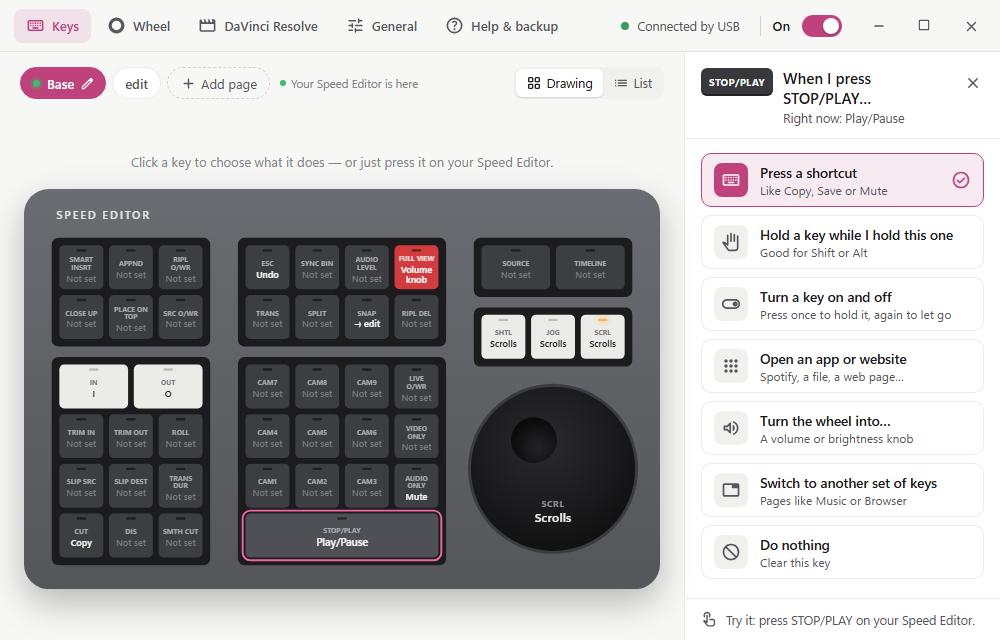
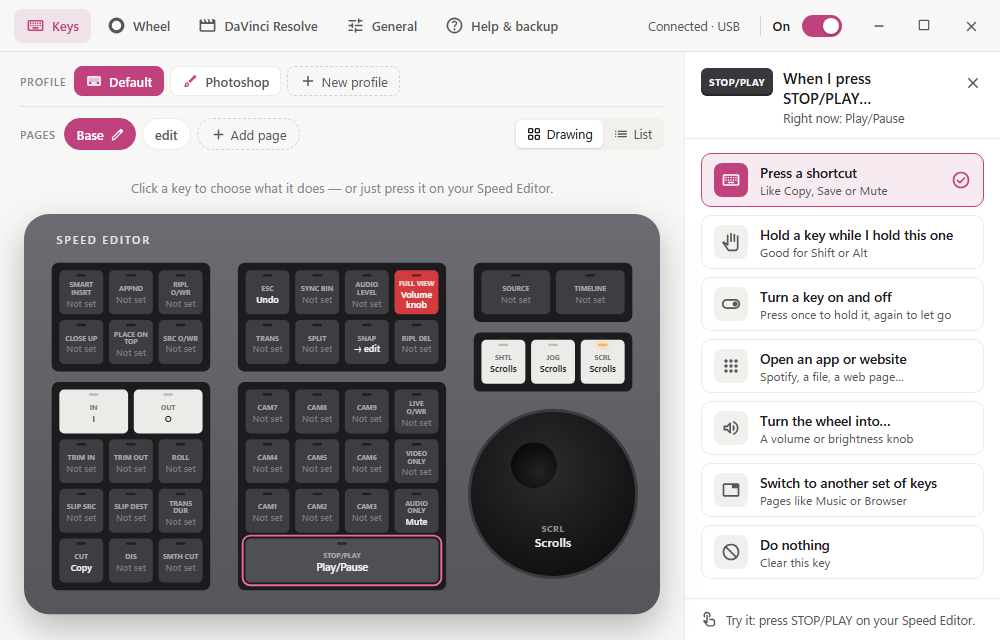
docs: README shows the 1.1 screens (#222)
The README stills are refreshed from this PR's e2e-windows run (the
e2e-screenshots artifact's readme/ folder): the 1.1 look, with the
profile picker. The e2e adds an example Photoshop profile (rose, a brush
icon) next to Default before the stills are taken.

---------

diff --git a/scripts/readme.test.js b/scripts/readme.test.js
@@ -79,3 +79,7 @@ test("the header's badges: the latest release's build, and the license, with no 
   const release = readFileSync(new URL("../.github/workflows/release.yml", import.meta.url), "utf8");
   expect(release).toMatch(/^on:\r?\n  push:\r?\n    tags: \["v\*"\]\r?\n  workflow_dispatch:/m);
 });
+
+test("the README's hero shows the profile picker", () => {
+  expect(readme).toMatch(/alt="freewheel's Keys tab: the profile picker[^"]*"/);
+});

diff --git a/README.md b/README.md
@@ -6,7 +6,7 @@
 
 <picture>
   <source media="(prefers-color-scheme: dark)" srcset="docs/images/dark-keys.png">
-  <img alt="freewheel's Keys tab: a drawing of the Speed Editor with STOP/PLAY selected and its panel open, set to the Play/Pause media key" src="docs/images/light-keys.png" width="1000">
+  <img alt="freewheel's Keys tab: the profile picker with Default and a Photoshop profile, Default's pages under it, and a drawing of the Speed Editor with STOP/PLAY selected and its panel open, set to the Play/Pause media key" src="docs/images/light-keys.png" width="1000">
 </picture>
 
 ## What it does
